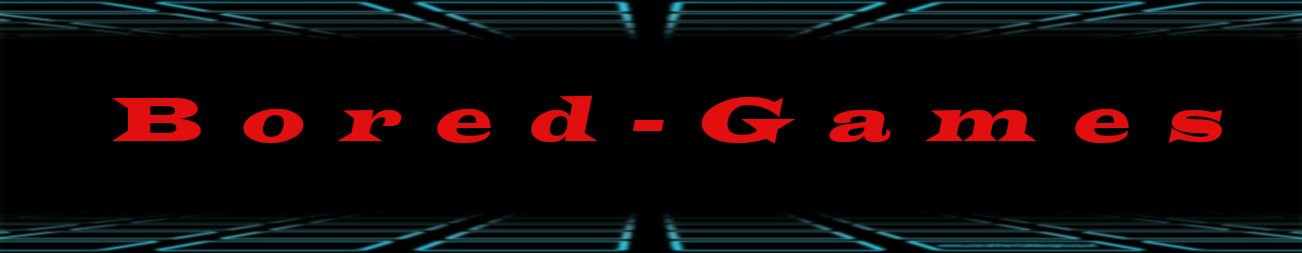
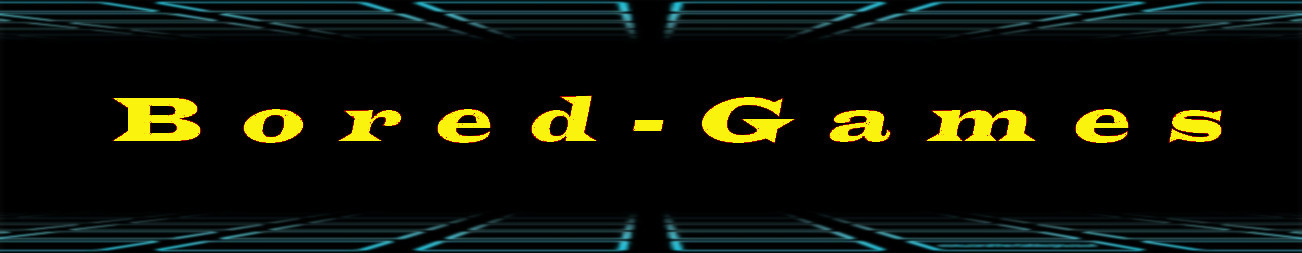
index and contact html font color
changed the font color from red to yellow which looks better and catches the eye more

Changed region(s): [[0.3379, 0.3597, 0.9524, 0.581], [0.1843, 0.415, 0.3072, 0.581], [0.0922, 0.3874, 0.1536, 0.581]]

diff --git a/teamSoftware/contactUs.html b/teamSoftware/contactUs.html
@@ -46,9 +46,9 @@
           <a class="dropdown-toggle" data-toggle="dropdown" href="#">Games
           <span class="caret"></span></a>
           <ul class="dropdown-menu">
-            <li><a href="ep1.html">Top-Down Game</a></li>
+            <li><a href="#">Top-Down Game</a></li>
             <li><a href="hangman/index.html">Hangman</a></li>
-            <li><a href="ep3.html">Coming Soon</a></li>
+            <li><a href="#">Coming Soon</a></li>
             
           </ul>
         </li>
@@ -56,9 +56,9 @@
           <a class="dropdown-toggle" data-toggle="dropdown" href="#">Tutorials
           <span class="caret"></span></a>
           <ul class="dropdown-menu">
-            <li><a href="yoda.html">Top-Down Game</a></li>
+            <li><a href="#">Top-Down Game</a></li>
             <li><a href="hangman/index.html">Hangman</a></li>
-            <li><a href="luke.html">Coming Soon</a></li> 
+            <li><a href="#">Coming Soon</a></li> 
           </ul>
         </li>
          
@@ -66,8 +66,8 @@
           <span class="caret"></span></a>
           
        
-         <li><a href="starships.html">Contact us</a></li> 
-         <li><a href="droids.html">Login/Sign up</a></li>
+         <li><a href="contactUs.html">Contact us</a></li> 
+         <li><a href="#">Login/Sign up</a></li>
          <li><a href ="#">Sign up for our News Letter</a></li>
          <li><form action = "add.php" method = "Post">
           <input type = "text" name = "email" placeholder = "E-mail Address">

diff --git a/teamSoftware/index.html b/teamSoftware/index.html
@@ -42,9 +42,9 @@
           <a class="dropdown-toggle" data-toggle="dropdown" href="#">Games
           <span class="caret"></span></a>
           <ul class="dropdown-menu">
-            <li><a href="ep1.html">Top-Down Game</a></li>
+            <li><a href="#">Top-Down Game</a></li>
             <li><a href="hangman/index.html">Hangman</a></li>
-            <li><a href="ep3.html">Coming Soon</a></li>
+            <li><a href="#">Coming Soon</a></li>
             
           </ul>
         </li>
@@ -52,9 +52,9 @@
           <a class="dropdown-toggle" data-toggle="dropdown" href="#">Tutorials
           <span class="caret"></span></a>
           <ul class="dropdown-menu">
-            <li><a href="yoda.html">Top-Down Game</a></li>
+            <li><a href="#">Top-Down Game</a></li>
             <li><a href="hangman/index.html">Hangman</a></li>
-            <li><a href="luke.html">Coming Soon</a></li> 
+            <li><a href="#">Coming Soon</a></li> 
           </ul>
         </li>
          
@@ -63,7 +63,7 @@
           
        
          <li><a href="contactUs.html">Contact us</a></li> 
-         <li><a href="droids.html">Login/Sign up</a></li>
+         <li><a href="#">Login/Sign up</a></li>
          <li><a href ="#">Sign up for our News Letter</a></li>
          <li><form action = "add.php" method = "Post">
           <input type = "text" name = "email" placeholder = "E-mail Address">

diff --git a/teamSoftware/css/styles.css b/teamSoftware/css/styles.css
@@ -4,12 +4,12 @@
 }
 .star{
 	font-family:"star";
-	color: red;
+	color: yellow;
 	text-shadow: 5px 5px black;
 
 }
 h2, a{
-	color: red;
+	color: yellow;
 }
 .darkred{
 	color:#ff0000;
